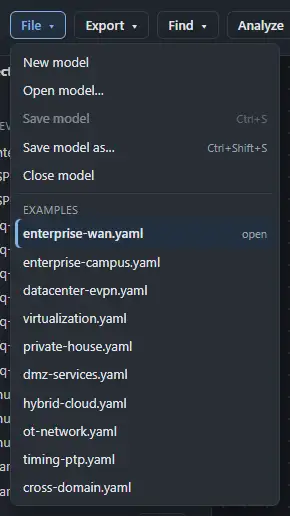
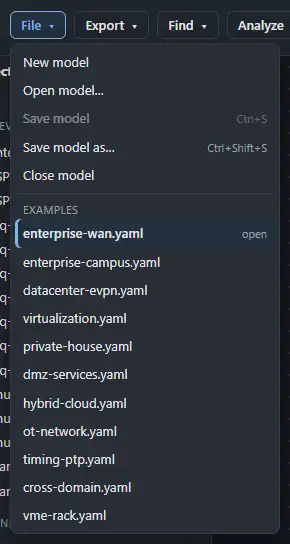
Examples: a VME control rack; File → Examples one line per example
vme-rack.yaml, a public example of non-IP interconnects as a system uses
them: a VME64x crate whose CPUs (one the system controller), ADC,
digital I/O and MIL-STD-1553 boards share the VMEbus backplane; the 1553
bus to two remote terminals and a bus monitor in the field; RS-232
console lines from both CPUs to a console server; Ethernet only for the
operators. Valid, without warnings or consistency findings; appended to
the catalog (existing #example=N links keep their numbers), described in
examples/README.md.

The File menu's entries took two lines each: the "open · modified" hint
had the class ex-state, which the Experiments panel styles as
flex: 1 1 16em; the empty hint claimed 16em and squeezed the name until
it wrapped. The hint is mi-state now, hidden while empty, and a name
that does not fit ends with an ellipsis instead of wrapping. The
self-test measures every entry at one line; the manual's File menu
image is taken again (the screenshot script takes SHOTS=a,b to write
only the images named).

diff --git a/src/app/selftest.ts b/src/app/selftest.ts
@@ -857,13 +857,20 @@ export async function runSelfTest(app: App, doc: Document): Promise<Check[]> {
       }
 
       click('#menu-btn');
+      {
+        // one line per example: every entry as tall as a single line of the menu (its name never wraps)
+        const items = Array.from(document.querySelectorAll('#menu-examples [data-example]')) as HTMLElement[];
+        const line = parseFloat(getComputedStyle(items[0].querySelector('.mi-label') as HTMLElement).lineHeight) || 18;
+        const tall = items.filter((b) => (b.querySelector('.mi-label') as HTMLElement).getBoundingClientRect().height > line * 1.5);
+        check('the File menu lists each example on one line', items.length === EXAMPLES.length && tall.length === 0, tall.map((b) => b.textContent).join(', '));
+      }
       click('#menu-examples [data-example="2"]');
       await tick(10);
       check('choosing an example from the menu loads it and closes the menu', menu!.hidden && !!app.mdoc && app.mdoc.fileName === EXAMPLES[2].name && !(q('#btn-save-as') as HTMLButtonElement).disabled, app.mdoc ? app.mdoc.fileName : 'nothing loaded');
       {
         // the loaded example is marked in the File menu, and so is whether its model was modified (also after undo / redo)
         const ex = (i: number): HTMLElement => q(`#menu-examples [data-example="${i}"]`) as HTMLElement;
-        const exState = (i: number): string => `${ex(i).classList.contains('active-example')}/${ex(i).getAttribute('aria-current') || '-'}/${(ex(i).querySelector('.ex-state') as HTMLElement).textContent}/${ex(i).getAttribute('data-modified')}`;
+        const exState = (i: number): string => `${ex(i).classList.contains('active-example')}/${ex(i).getAttribute('aria-current') || '-'}/${(ex(i).querySelector('.mi-state') as HTMLElement).textContent}/${ex(i).getAttribute('data-modified')}`;
         const others = (): boolean => EXAMPLES.every((_, i) => i === 2 || exState(i) === 'false/-//false');
         const loaded = exState(2);
         const saveOff = (q('#btn-save') as HTMLButtonElement).disabled && /not linked/.test(q('#btn-save')!.title) && app.fileState().kind === 'example' && /built-in example/.test(q('#status .file-state')!.textContent || '');

diff --git a/src/styles.css b/src/styles.css
@@ -330,6 +330,10 @@ dialog#modal.palette-dialog .modal-btns { display: none; }
 .dropdown.menu > .menu-sep { height: 1px; padding: 0; margin: 4px 2px; background: var(--border); }
 .dropdown.menu > .menu-title { padding: 4px 8px 2px; font-size: 11px; text-transform: uppercase; letter-spacing: .04em; color: var(--muted); }
 .dropdown.menu > #menu-examples { padding: 0; }
+/* one line per example: its file name (cut with an ellipsis when the menu is narrower), then "open · modified" when it is the open one */
+#menu-examples button .mi-label { flex: 1 1 auto; min-width: 0; white-space: nowrap; overflow: hidden; text-overflow: ellipsis; overflow-wrap: normal; }
+#menu-examples button .mi-state { flex: 0 0 auto; }
+#menu-examples button .mi-state:empty { display: none; }
 /* a submenu opens in place, under its entry (a press or a key opens it; it never depends on hovering) */
 .dropdown.menu .submenu { margin: 0 0 2px 10px; padding: 0 0 0 6px; border-left: 2px solid var(--border); }
 .dropdown.menu [aria-haspopup="menu"][aria-expanded="true"] { background: var(--accent-soft); }
@@ -657,7 +661,7 @@ button.mini { padding: 1px 7px; font-size: 11.5px; border-radius: 5px; }
 .dropdown.menu #btn-save[data-modified="true"] .mi-label::after { content: " \25CF"; color: var(--warn); font-size: 9px; vertical-align: 2px; }
 .dropdown.menu .active-example { box-shadow: inset 3px 0 0 var(--accent); background: var(--accent-soft); }
 .dropdown.menu .active-example .mi-label { font-weight: 600; }
-.dropdown.menu .active-example[data-modified="true"] .ex-state { color: var(--warn); }
+.dropdown.menu .active-example[data-modified="true"] .mi-state { color: var(--warn); }
 #status .errcount { color: var(--error); font-weight: 600; }
 .tabs button.has-errors { color: var(--error); }
 .tabs button { padding: 8px 2px; font-size: 12.5px; }

diff --git a/src/ui/app.ts b/src/ui/app.ts
@@ -1605,7 +1605,7 @@ export class App {
       if (on) b.setAttribute('aria-current', 'true');
       else b.removeAttribute('aria-current');
       b.setAttribute('data-modified', modified ? 'true' : 'false');
-      const hint = b.querySelector('.ex-state') as HTMLElement;
+      const hint = b.querySelector('.mi-state') as HTMLElement;
       hint.textContent = on ? (modified ? 'open · modified' : 'open') : '';
       b.title = on ? `The open model is this example${modified ? ', modified (not saved)' : ''}. Choosing it opens it again from the start.` : `Open the example ${EXAMPLES[n] ? EXAMPLES[n].name : ''}`;
     }
@@ -2311,7 +2311,7 @@ export class App {
   private fillExamples(): void {
     const menu = this.$('menu-examples');
     EXAMPLES.forEach((ex, i) =>
-      menu.appendChild(el(this.doc, 'button', { type: 'button', role: 'menuitem', 'data-example': String(i), title: `Open the example ${ex.name}` }, [el(this.doc, 'span', { class: 'mi-label' }, [ex.name]), el(this.doc, 'span', { class: 'mi-hint ex-state' })])),
+      menu.appendChild(el(this.doc, 'button', { type: 'button', role: 'menuitem', 'data-example': String(i), title: `Open the example ${ex.name}` }, [el(this.doc, 'span', { class: 'mi-label' }, [ex.name]), el(this.doc, 'span', { class: 'mi-hint mi-state' })])),
     );
     // the start screen's picker names each example by its title
     const pick = this.$('start-example');

diff --git a/examples/README.md b/examples/README.md
@@ -25,6 +25,7 @@ NetAtlas keeps two kinds of example models apart.
 | `ot-network.yaml` | OT cell: PLC, HMI, protocol gateway, TAP and passive IDS; applications and MQTT |
 | `timing-ptp.yaml` | Time synchronization: PTP grandmasters, a boundary and a transparent clock |
 | `cross-domain.yaml` | Cross-domain boundary: a Security gateway that breaks the protocol |
+| `vme-rack.yaml` | Embedded VME rack: a VMEbus backplane, a MIL-STD-1553 bus and console lines beside Ethernet |
 
 [Why each one is in the catalog](#why-each-one-is-in-the-catalog) is below. A public example has a concise `title` and a `description`,
 loads without errors, warnings or consistency findings (each public example
@@ -63,7 +64,7 @@ self-test), and shows one architecture rather than a list of features.
 
 ## Why each one is in the catalog
 
-The **File** menu offers ten examples: one representative model for each
+The **File** menu offers eleven examples: one representative model for each
 kind of network NetAtlas is meant for, each a coherent architecture rather
 than a list of features. They are in [`examples/`]() and are the
 only models built into `dist/netatlas.html`.
@@ -80,6 +81,7 @@ only models built into `dist/netatlas.html`.
 | [`ot-network.yaml`](ot-network.yaml) | **OT cell.** A PLC and an HMI behind a protocol gateway, a pass-through TAP feeding a passive IDS; the PLC's applications (a register listener the HMI polls, telemetry published by MQTT) and an MQTT broker with a matching and a non-matching subscriber. | Industrial devices, port pairs and a monitoring copy that forwards nothing; Endpoints that run applications without becoming servers, and MQTT's fan-out by topic filter; dependency expectations, a violated isolation requirement (a forwarder without a policy) and the broker as a service single point; repeatable experiments of the cabinet's outage and of the HMI's dashboard receiving the PLC's temperatures by MQTT. |
 | [`timing-ptp.yaml`](timing-ptp.yaml) | **Time synchronization.** Two cells in one PTP domain: two grandmaster candidates behind a transparent-clock switch, a router as boundary clock, a PLC and a drive receiving time. | The PTP election, boundary and transparent clocks, and a grandmaster failing and coming back, in the simulation; timing expectations with an explicit method (PTP keeps a source without one grandmaster; the router's NTP chain does not) that never claim synchronization. |
 | [`cross-domain.yaml`](cross-domain.yaml) | **Cross-domain boundary.** Red and Black domains joined by a Security gateway that breaks the protocol: one permitted web transfer in two legs, one denied transfer, a management network apart. | A separation boundary with an explicit policy, traced with a service. |
+| [`vme-rack.yaml`](vme-rack.yaml) | **Embedded VME rack.** A VME64x crate in a control-room rack: a system-controller CPU, a second CPU, ADC and digital I/O boards and a MIL-STD-1553 board on the VMEbus backplane; the 1553 bus to two remote terminals and a bus monitor in the field; RS-232 console lines from both CPUs to a console server; Ethernet only for the CPUs, the console server and an engineering workstation. | Non-IP interconnects as a system uses them: a shared backplane with controllers and targets (one the system controller), a command/response bus with a monitor, point-to-point serial lines, opaque ports beside IP interfaces on the same boards; **Send illustrative data** shows where data can go (a CPU reading the ADC, the 1553 board commanding a remote terminal) and why it can't; the IP side never uses them. |
 
 ### The private-house example
 

diff --git a/README.md b/README.md
@@ -64,7 +64,7 @@ tools.
 2. **Open it** in a current Chrome, Edge, Firefox or Safari: double-click it or
    drag it into a browser window.
 3. **Start a model**: **New model**, **Open model…** for a YAML file, or
-   **Load example** for one of the ten built-in examples.
+   **Load example** for one of the eleven built-in examples.
 4. **Explore, analyze or simulate**: switch between **Physical** and
    **Logical** in the toolbar, select objects to edit them, and use the
    **Analyze** and **Simulate** menus.
